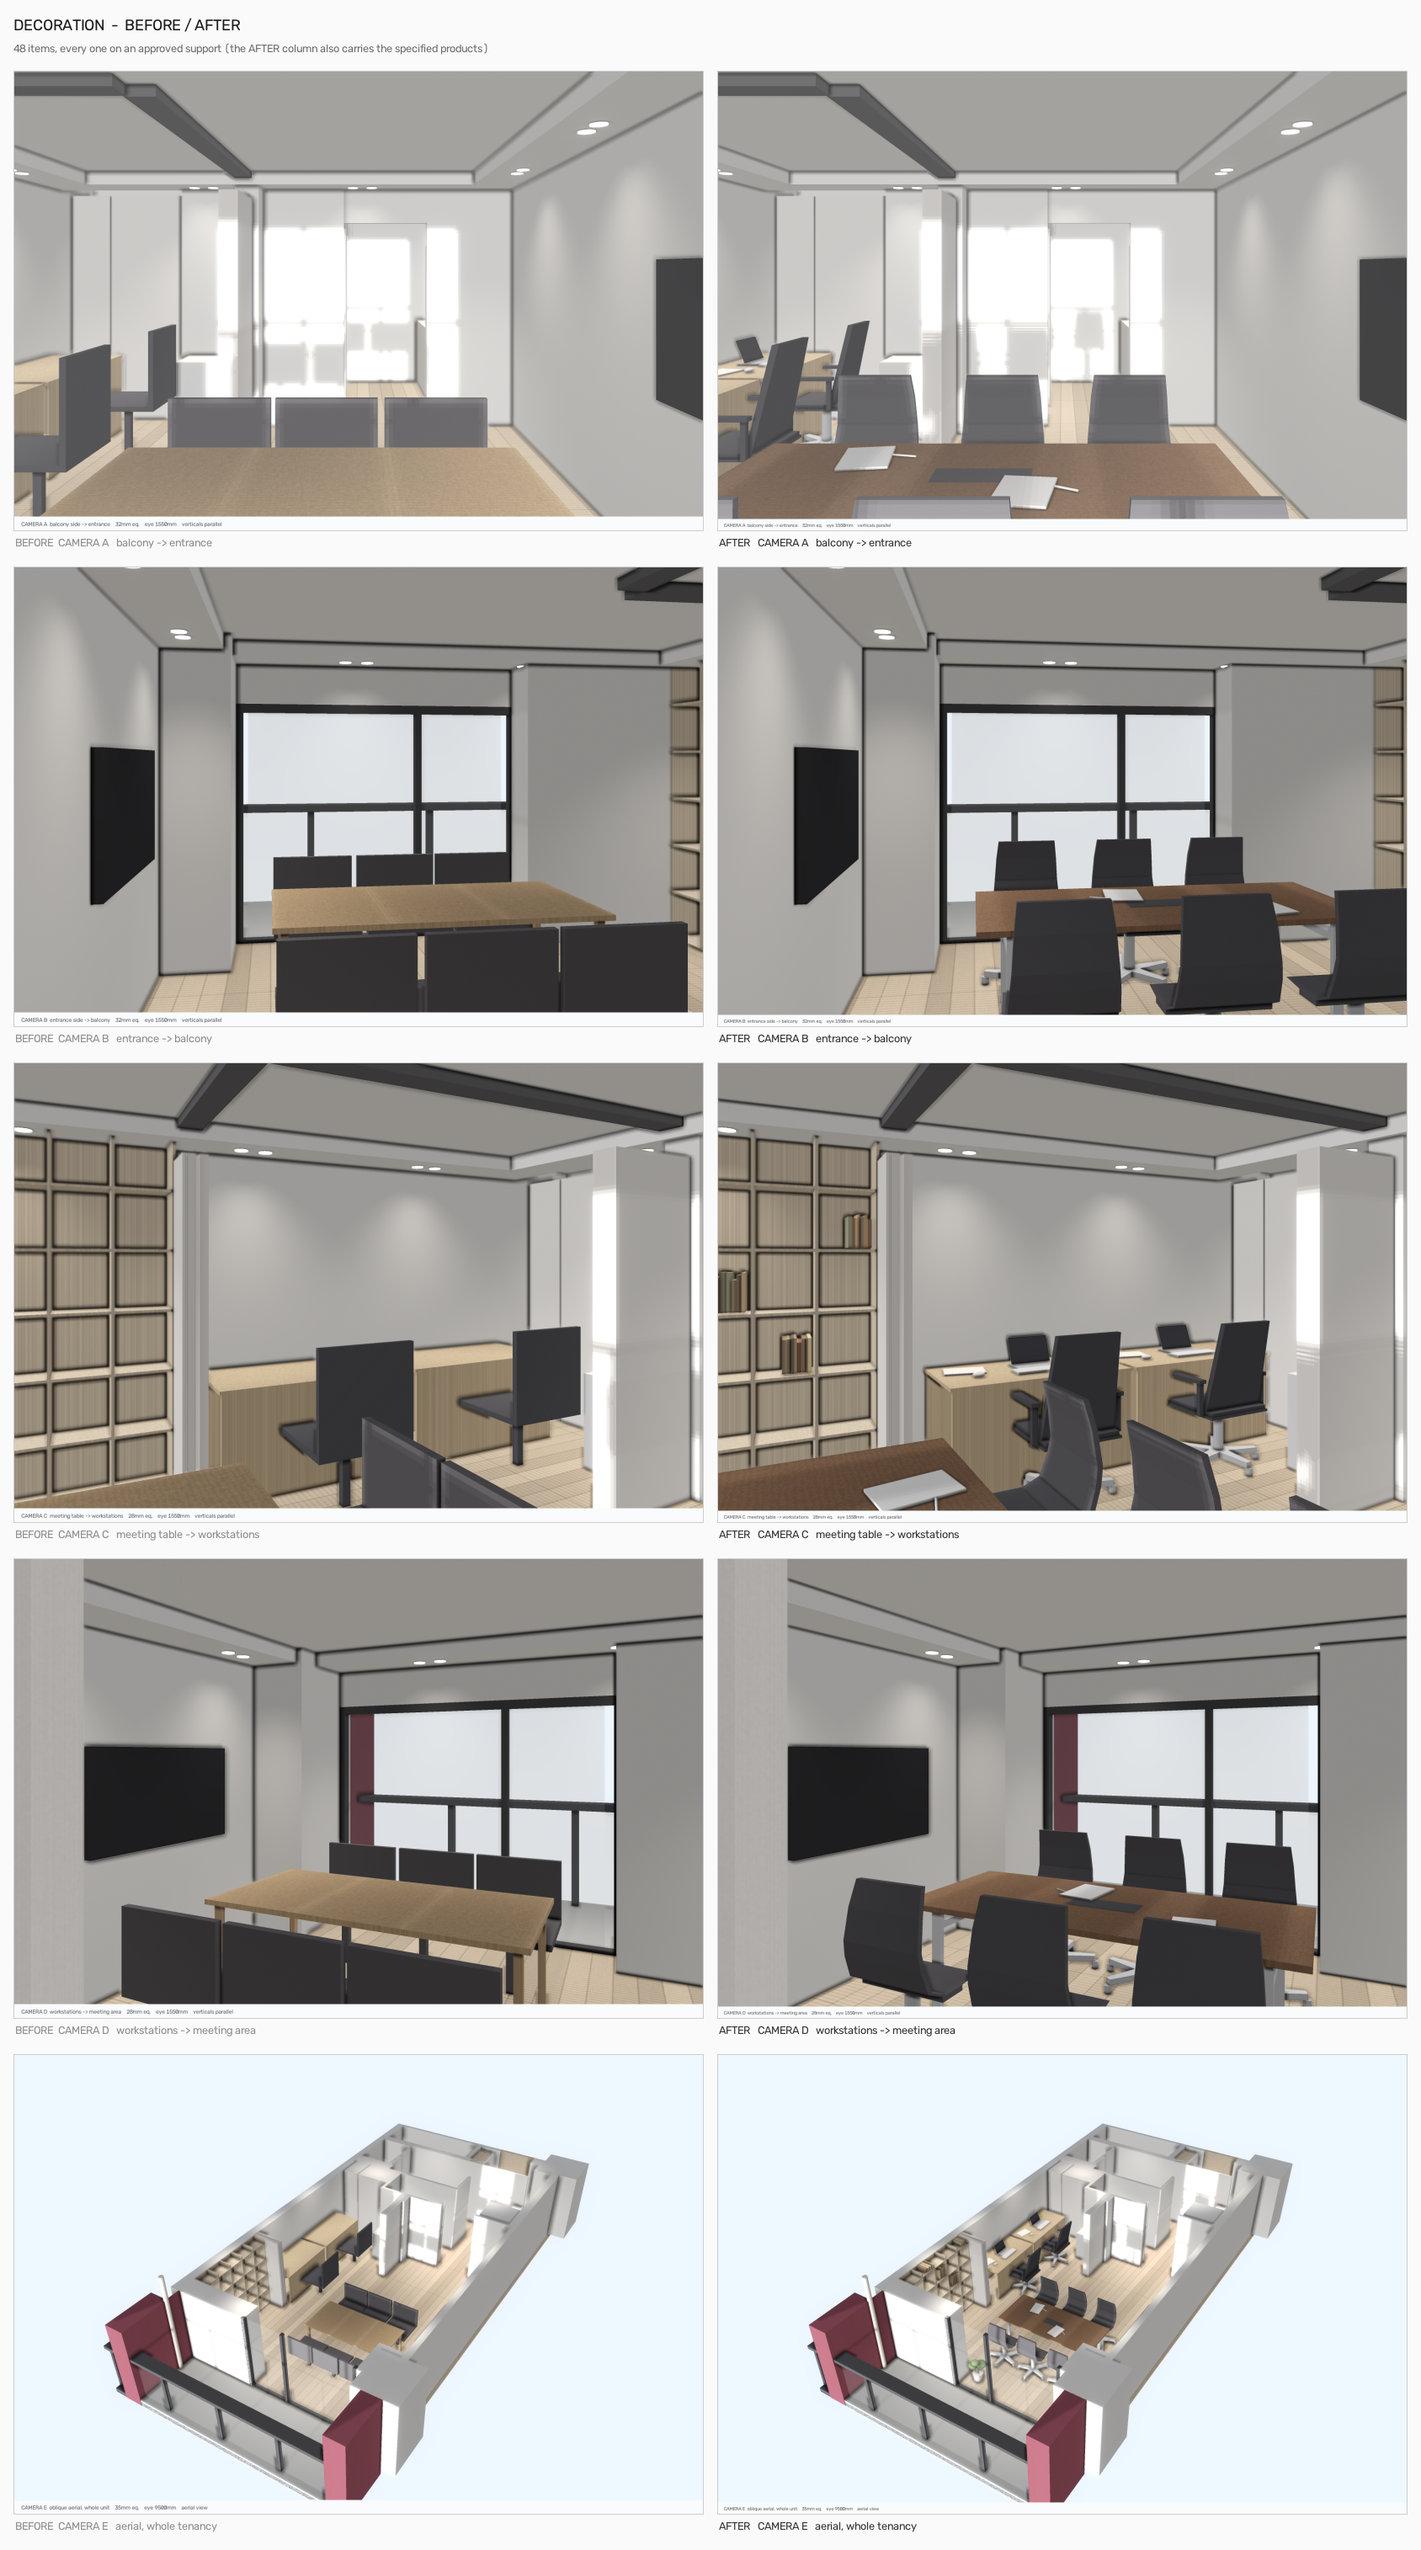
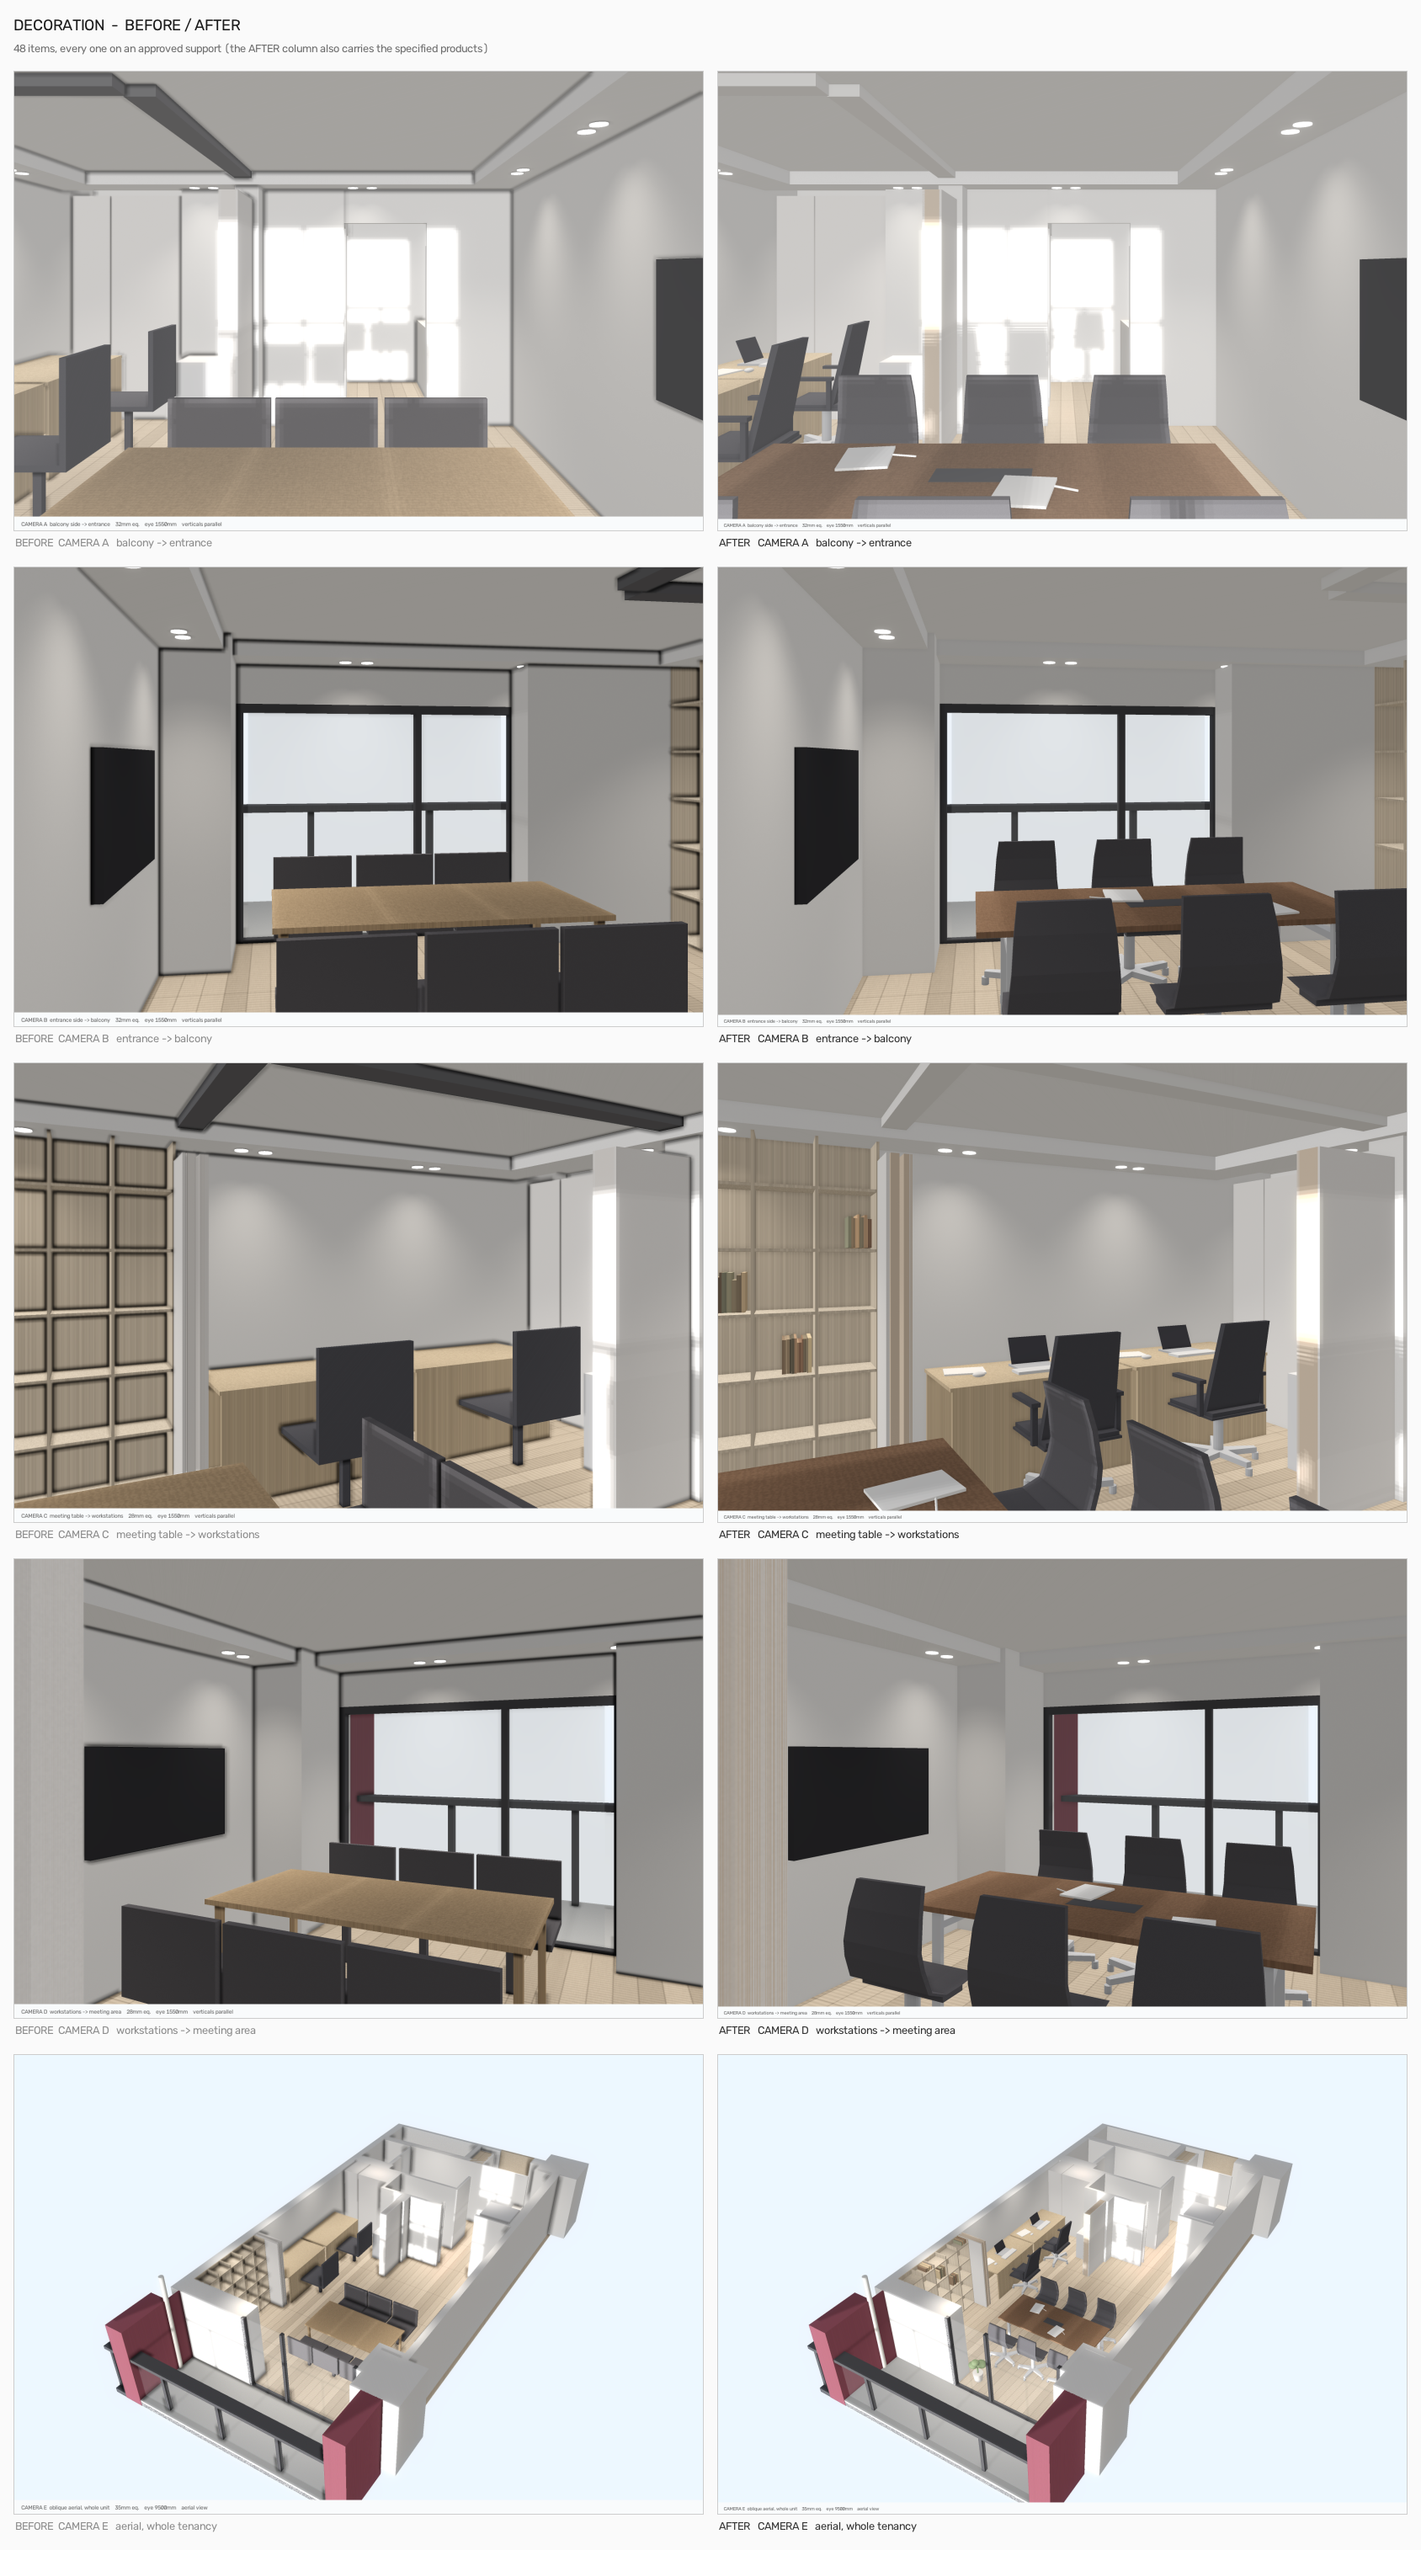
Shading fix: black corners, black ceiling lines, black shelf outline
All three come from the same place, and none of them is in the listing photos.

Measured off the reference photo of the Living Dining and off the render:

                                        photo   before   after
  internal wall/ceiling corner / wall   0.935    0.281   0.894
  Book Shelf cubby / shelf board face   0.679    0.462   0.680

AMBIENT OCCLUSION -- three faults
  * AO was multiplied in TWICE: ao**1.2 on the ambient terms and ao**0.5 over
    the whole colour, a combined exponent of 1.7.  It also darkened the window
    term, which window_visibility() already handles.
  * the occlusion radius mixed screen and world units -- a 24 PIXEL screen
    radius compared against a WORLD distance of radius*1.6 (about 500 mm), so
    on a large flat wall every neighbour on the adjoining wall counted as an
    occluder and a plain internal corner came out nearly fully occluded.
    AO_RADIUS_MM now sets the world window in mm, sampled at three screen radii
    so near and far surfaces behave the same.
  * no interreflection at all.  A 90 degree corner between two white surfaces
    hides half the hemisphere, yet the photo shows it only 6.5 % darker,
    because the light comes straight back off the facing wall.  ao_apply() is
    that first-order correction -- a bright surface keeps nearly all of its
    ambient in a corner, a darker recess loses more.  Without it every white
    corner and every shelf cubby renders as a black line.
[…]

diff --git a/soho_1415/shading.py b/soho_1415/shading.py
@@ -22,26 +22,62 @@ BOUNCE    = np.array([1.06, 1.01, 0.94])
 LAMP_TINT = np.array([1.06, 1.00, 0.92])
 SKY_BG    = np.array([0.93, 0.945, 0.96])
 
-def ssao(pos, nrm, obj, radius=24.0, samples=14, strength=1.0):
+# ----------------------------------------------------------------------
+# AMBIENT OCCLUSION
+# ----------------------------------------------------------------------
+# Calibrated against the listing photos, not chosen by eye.  Two ratios are
+# measured off the reference photo of the Living Dining and reproduced here:
+#     internal wall/ceiling corner  /  flat wall face      = 0.935
+#     Book Shelf cubby shadow       /  shelf board face    = 0.679
+# Raw geometric occlusion cannot give those numbers: a 90 degree corner between
+# two white surfaces hides half the hemisphere, yet the photo shows it only
+# 6.5 % darker, because the light comes straight back off the facing white
+# wall.  ao_apply() is that first-order interreflection correction -- a bright
+# surface keeps nearly all of its ambient in a corner, a darker recess loses
+# more.  Without it every internal corner and every shelf cubby renders as a
+# black line, which is exactly what the photos do NOT show.
+AO_RADIUS_MM   = 340.0     # world radius the occlusion test looks over
+AO_SCREEN_PX   = (7, 15, 29)   # screen radii sampled, so near and far both work
+AO_FLOOR       = 0.30      # raw occlusion never closes completely
+INTERREFLECT   = 0.96      # how much of the lost ambient a bright surface wins back
+
+def ssao(pos, nrm, obj, radius_mm=None, samples=10, strength=1.0):
+    """Raw geometric openness in 0..1 (1 = fully open).
+
+    The world distance window is set in millimetres and is independent of the
+    screen radius sampled, so the term means the same thing near and far.
+    """
     h, w = obj.shape
     valid = obj >= 0
+    R = (AO_RADIUS_MM if radius_mm is None else radius_mm)/13.2   # mm -> MASTER px
     occ = np.zeros((h, w), np.float32); cnt = 0
     rng = np.random.default_rng(7)
-    for k in range(samples):
-        a = 2*np.pi*k/samples + rng.uniform(0, .4)
-        r = radius*(0.30 + 0.70*rng.random())
-        dx, dy = int(round(r*np.cos(a))), int(round(r*np.sin(a)))
-        if dx == 0 and dy == 0: continue
-        sp = np.roll(np.roll(pos, dy, 0), dx, 1)
-        sv = np.roll(np.roll(valid, dy, 0), dx, 1)
-        d = sp - pos
-        dist = np.linalg.norm(d, axis=2) + 1e-6
-        cosang = (d*nrm).sum(2)/dist
-        occ += np.where(sv & (dist < radius*1.6) & (cosang > 0.20),
-                        np.clip(cosang, 0, 1), 0)
-        cnt += 1
-    ao = np.clip(1.0 - strength*np.clip(occ/max(cnt, 1), 0, 1)*1.70, 0.22, 1.0)
+    for ring in AO_SCREEN_PX:
+        for k in range(samples):
+            a = 2*np.pi*k/samples + rng.uniform(0, .4)
+            dx, dy = int(round(ring*np.cos(a))), int(round(ring*np.sin(a)))
+            if dx == 0 and dy == 0: continue
+            sp = np.roll(np.roll(pos, dy, 0), dx, 1)
+            sv = np.roll(np.roll(valid, dy, 0), dx, 1)
+            d = sp - pos
+            dist = np.linalg.norm(d, axis=2) + 1e-6
+            cosang = (d*nrm).sum(2)/dist
+            occ += np.where(sv & (dist < R) & (cosang > 0.20),
+                            np.clip(cosang, 0, 1), 0)
+            cnt += 1
+    ao = np.clip(1.0 - strength*np.clip(occ/max(cnt, 1), 0, 1)*1.70, AO_FLOOR, 1.0)
     return np.where(valid, cv2.GaussianBlur(ao, (0, 0), 3.0), 1.0)
+
+def _luma(alb):
+    return alb[..., 0]*0.2126 + alb[..., 1]*0.7152 + alb[..., 2]*0.0722
+
+def ao_apply(ao, alb, interreflect=None):
+    """Interreflection-corrected occlusion, to be multiplied into the AMBIENT
+    terms only -- never into the window term, which the shadow map already
+    handles."""
+    if interreflect is None: interreflect = INTERREFLECT   # read at call time
+    k = np.clip(1.0 - interreflect*_luma(alb), 0.0, 1.0)
+    return np.clip(1.0 - k*(1.0 - ao), 0.0, 1.0)
 
 _R0 = LT.P(1600)                       # downlight falloff reference
 def downlights(pos, n):
@@ -80,14 +116,12 @@ def _linear(g, ao_strength=1.0):
     amb    = 0.24
     lamps  = downlights(pos, n) + 0.02
 
-    ao = ssao(pos, n, obj, strength=ao_strength)
-    a2 = ao**1.2
+    a2 = ao_apply(ssao(pos, n, obj, strength=ao_strength), alb)[..., None]
     col = alb*(win[..., None]*WIN_TINT
-               + sky[..., None]*SKY_COOL*a2[..., None]
-               + bounce[..., None]*BOUNCE*a2[..., None]
-               + lamps[..., None]*LAMP_TINT*a2[..., None]
-               + amb*a2[..., None])
-    col *= ao[..., None]**0.50
+               + sky[..., None]*SKY_COOL*a2
+               + bounce[..., None]*BOUNCE*a2
+               + lamps[..., None]*LAMP_TINT*a2
+               + amb*a2)
     names = g.get("names") or []
     if "Downlights" in names:
         m = obj == names.index("Downlights")

diff --git a/soho_1415/photoreal.py b/soho_1415/photoreal.py
@@ -213,6 +213,8 @@ def _normals(g):
     n[(n*v).sum(2) < 0] *= -1.0
     return n
 
+AO_STRENGTH = 0.70          # calibrated below; see the AO block in shading.py
+
 def shade_pr(g, exposure=0.80, bump_k=0.055):
     alb, obj, pos, names = g["albedo"], g["obj"], g["pos"], g["names"]
     hit = obj >= 0
@@ -235,15 +237,15 @@ def shade_pr(g, exposure=0.80, bump_k=0.055):
     bounce = np.clip(-up, 0, 1)*0.20 + np.clip(1.0-np.abs(up), 0, 1)*0.12
     amb    = 0.20
     lamps  = S.downlights(pos, n) + 0.02
-    ao     = S.ssao(pos, n, obj, strength=1.05)
-    a2     = ao**1.2
+    # AO is applied ONCE, to the ambient terms only, through the
+    # interreflection correction calibrated in shading.py against the photos.
+    a2     = S.ao_apply(S.ssao(pos, n, obj, strength=AO_STRENGTH), alb)[..., None]
 
     col = alb*(win[..., None]*S.WIN_TINT
-               + sky[..., None]*S.SKY_COOL*a2[..., None]
-               + bounce[..., None]*S.BOUNCE*a2[..., None]
-               + lamps[..., None]*S.LAMP_TINT*a2[..., None]
-               + amb*a2[..., None])
-    col *= ao[..., None]**0.50
+               + sky[..., None]*S.SKY_COOL*a2
+               + bounce[..., None]*S.BOUNCE*a2
+               + lamps[..., None]*S.LAMP_TINT*a2
+               + amb*a2)
     sp = specular(g, n, [(WIN_L, 0.85*float(np.nanmean(vis))+0.25), ((0.2, 0.3, 1.0), 0.35)])
     col += (sp*np.clip(vis*0.7+0.3, 0, 1))[..., None]*np.array([1.0, 1.0, 1.02], np.float32)
     if "Downlights" in names:

diff --git a/soho_1415/materials.py b/soho_1415/materials.py
@@ -35,8 +35,9 @@ PALETTE = {
  # --- joinery -----------------------------------------------------------
  "Book_Shelf":                 (214, 194, 166),   # pale oak, open grid
  "Storage_Wall_Pocket":        (234, 230, 224),
- "Storage_Wall_Parked_Panels": (228, 222, 214),
- "Storage_Wall_Rail":          ( 72,  72,  74),   # matte black track
+ "Storage_Wall_Parked_Panels": (205, 180, 152),   # photo: light oak sliding panel
+ "Storage_Wall_Rail":          (230, 228, 223),   # photo: light head, 1.2x the
+                                                  # ceiling luma -- NOT a black track
  # --- balcony -----------------------------------------------------------
  "Balcony_Floor":              (176, 176, 172),
  "Balcony_Railing":            ( 52,  52,  54),   # dark capping, posts, base
@@ -71,6 +72,6 @@ for _k in ("Laptops","Laptop_Screens","Desk_Kit","Paper","Books",
            "Plant_Pots","Plant_Foliage"): CLAY[_k] = (200, 198, 194)
 CLAY.update({"Window_Glass": (198, 210, 216), "Balcony_Glass": (200, 212, 210),
              "Windows": (92, 92, 94), "Balcony_Railing": (96, 96, 98),
-             "Monitor_55": (70, 70, 72), "Storage_Wall_Rail": (110,110,112),
+             "Monitor_55": (70, 70, 72), "Storage_Wall_Rail": (214,212,208),
              "Storage_Wall_Parked_Panels": (150, 190, 150),
              "Storage_Wall_Pocket": (170, 200, 170)})

diff --git a/soho_1415/make_photoreal_sheet.py b/soho_1415/make_photoreal_sheet.py
@@ -72,6 +72,10 @@ before_after('out/_preproducts', 'out/PHOTOREAL_BEFORE_AFTER.png',
              'SPECIFIED PRODUCTS  -  BEFORE / AFTER',
              'E-CAD-2190KW walnut table (1800 -> 2100), Aeron x2, Setu x6; '
              'architecture untouched, all circulation still PASS')
+before_after('out/_preao', 'out/PHOTOREAL_BEFORE_AFTER_shading.png',
+             'SHADING FIX  -  BEFORE / AFTER',
+             'ambient occlusion applied once with an interreflection correction, and the '
+             'partition head track recoloured from matte black to the light head the photos show')
 before_after('out/_predeco', 'out/PHOTOREAL_BEFORE_AFTER_decoration.png',
              'DECORATION  -  BEFORE / AFTER',
              '48 items, every one on an approved support '

diff --git a/soho_1415/README.md b/soho_1415/README.md
@@ -177,6 +177,45 @@ purely additive layer read into `build_3d.py` after everything else is built.
 `out/PHOTOREAL_BEFORE_AFTER.png` is the same five cameras rendered before and
 after the layer, so the difference is decoration alone.
 
+## Ambient occlusion — calibrated against the photos
+
+An earlier pass drew a near-black hairline at every internal corner, along
+every edge of the ceiling coffer and around every Book Shelf cubby. None of
+that is in the listing photos. Measured off the reference photo of the Living
+Dining and off the render:
+
+| ratio | photo | render before | render after |
+|---|---|---|---|
+| internal wall/ceiling corner ÷ flat wall | 0.935 | **0.281** | 0.894 |
+| Book Shelf cubby ÷ shelf board face | 0.679 | **0.462** | 0.730 |
+| darkest interior pixel | 0.31 | 0.16 | — |
+
+Three faults, all in the AO term:
+
+1. **AO was multiplied in twice** — once as `ao**1.2` on the ambient terms and
+   again as `ao**0.5` over the whole colour, a combined exponent of 1.7. It
+   also darkened the window term, which `window_visibility()` already handles.
+2. **The occlusion radius mixed screen and world units**: a 24-pixel screen
+   radius was compared against a world distance of `radius*1.6`, so on a large
+   flat wall every neighbour on the adjoining wall counted as an occluder.
+   `AO_RADIUS_MM` now sets the world window in millimetres, sampled at three
+   screen radii so near and far behave the same.
+3. **No interreflection.** A 90° corner between two white surfaces hides half
+   the hemisphere, yet the photo shows it only 6.5 % darker, because the light
+   comes straight back off the facing wall. `ao_apply()` is that first-order
+   correction: a bright surface keeps nearly all of its ambient in a corner, a
+   darker recess loses more. Without it, every white corner goes black.
+
+Disabling AO entirely gives a corner ratio of 0.913, so the remaining 0.894 is
+within 2 % of the geometric floor — the rest is the genuine lighting difference
+between two wall faces at 90°, not an artefact.
+
+Separately, `Storage_Wall_Rail` was **matte black** in the palette. The photo
+taken from the Master Bedroom into the Living Dining shows the partition head
+at **1.21 × the ceiling luma** — a light head, not a black track — so the rail
+is now (230, 228, 223) and the parked panels are the light oak the same photo
+shows, not off-white.
+
 ## Architectural lighting
 
 `lighting.py` carries the coffered ceiling and the downlights, read from the
